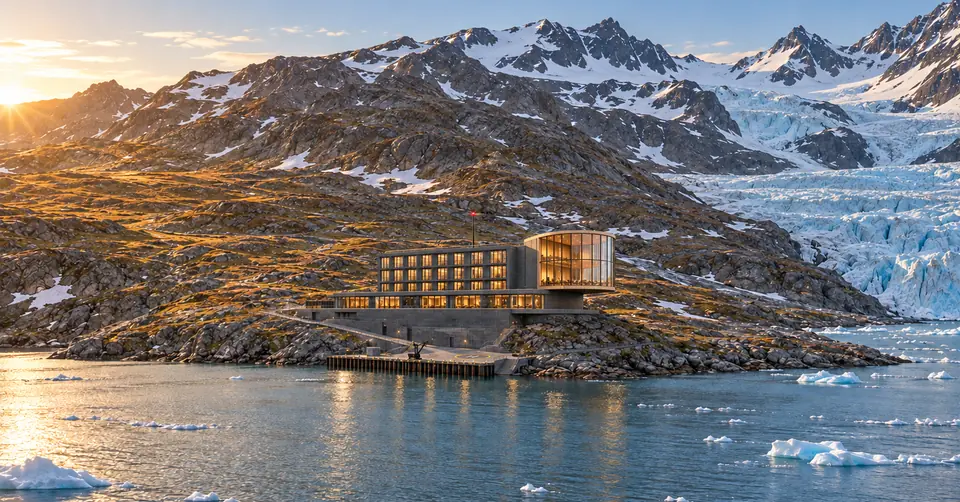
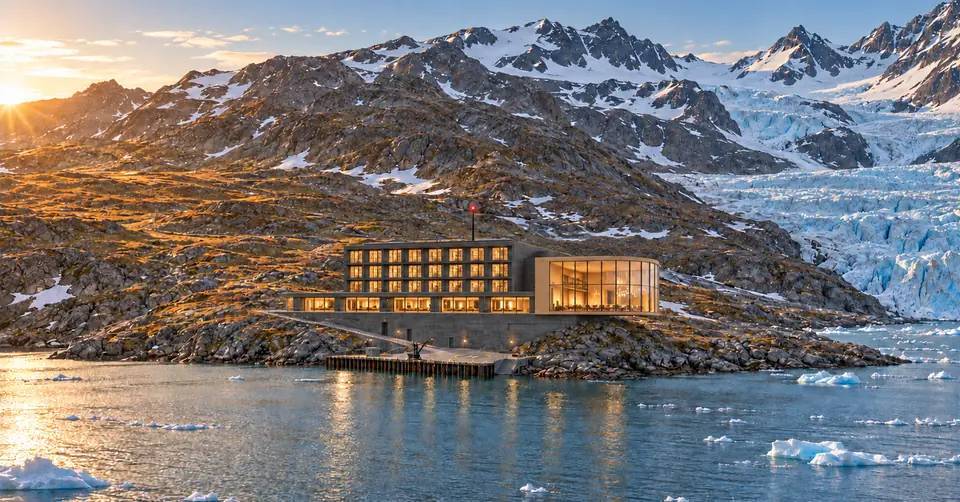
Align Aurora floor and lateral cantilever with author elevation sketch

diff --git a/src/main.tsx b/src/main.tsx
@@ -50,7 +50,7 @@ function Split({image,title,children,reverse=false,eyebrow}:{image:ImageKey;titl
 function Cam(){const {t}=useCopy();return <section className="cam-section wrap"><div className="section-heading"><div><p className="eyebrow">AURORA CAM</p><h2>{t.aurora.camTitle}</h2></div><p>{t.aurora.camNote}</p></div><div className="cam-frame"><Photo name="cam"/><span className="live"><i/>{t.aurora.live}</span><span className="cam-stamp">14.07.2026 / 11:02:00</span></div><p className="cam-status"><span aria-hidden="true">◌</span> {t.aurora.camStatus}</p></section>}
 function BookingStatus(){const {t}=useCopy();return <aside className="hero-booking" aria-label={t.home.bookingLabel}><div className="hero-booking-top"><span>{t.home.bookingLabel}</span><Link className="booking-cta" to="/reservas">{t.ui.book}<Arrow/></Link></div><p className="booking-status"><span aria-hidden="true"/> {t.home.bookingStatus}</p><p className="booking-note">{t.home.bookingNote}</p><Link className="booking-details" to="/reservas">{t.home.bookingDetails}<Arrow/></Link></aside>}
 function Home(){const {t}=useCopy();const [slide,setSlide]=useState(0);const [paused,setPaused]=useState(()=>window.matchMedia('(prefers-reduced-motion: reduce)').matches);useEffect(()=>{if(paused)return;const timer=setInterval(()=>setSlide(s=>(s+1)%2),10000);return()=>clearInterval(timer)},[paused]);return <><section className="hero"><div className={`hero-slide ${slide===0?'active':''}`} aria-hidden={slide!==0}><Photo name="hero" eager/></div><div className={`hero-slide ${slide===1?'active':''}`} aria-hidden={slide!==1}>{slide===1&&<Photo name="aurora"/>}</div><div className="hero-shade"/><div className="hero-content"><p className="eyebrow">{t.home.eyebrow}</p><h1>{t.home.title}</h1><p>{t.home.subtitle}</p><TextLink to="/el-arca">{t.ui.explore}</TextLink></div><BookingStatus/><div className="hero-bottom"><span>78° N · SVALBARD</span><span className="hero-index">0{slide+1} <span>/ 02</span><button onClick={()=>setPaused(!paused)} aria-label={paused?t.ui.play:t.ui.pause}>{paused?'▷':'Ⅱ'}</button></span></div></section><section className="home-intro wrap"><p className="eyebrow">{t.home.introLabel}</p><div><h2>{t.home.introTitle}</h2><p>{t.home.intro}</p><TextLink to="/el-arca">{t.nav.arca}</TextLink></div><span className="zero-mark" aria-hidden="true">∅</span></section><div className="landscape wrap-wide"><Photo name="master"/></div><section className="zero-section wrap"><div><p className="eyebrow">{t.home.zeroLabel}</p><h2>{t.home.zeroTitle}</h2></div><div className="zero-list">{t.home.zeros.map(([n,title,body])=><article key={n}><span>{n}</span><div><h3>{title}</h3><p>{body}</p></div></article>)}</div></section><section className="suites-home"><div className="wrap"><div className="section-heading"><div><p className="eyebrow">{t.nav.suites}</p><h2>{t.home.suiteTitle}</h2></div><div><p>{t.home.suiteText}</p><TextLink to="/suites">{t.ui.discover}</TextLink></div></div><div className="suite-grid">{t.suites.items.map((s,i)=><Link className="suite-card" key={s.name} to={'/suites?suite='+i}><Photo name={s.image as ImageKey} sizes="(max-width: 760px) 100vw, 33vw"/><div><span className="eyebrow">0{i+1} / {s.size}</span><h3>{s.name}<Arrow/></h3><p>{s.view}</p></div></Link>)}</div></div></section><Split image="aurora" title={t.home.experiencesTitle} eyebrow={t.nav.aurora}><p>{t.home.auroraText}</p><TextLink to="/aurora">{t.ui.discover}</TextLink></Split><section className="experience-grid wrap"><Link to="/bienestar"><Photo name="spa" sizes="(max-width: 760px) 100vw, 50vw"/><div><p className="eyebrow">{t.nav.wellness}</p><h3>{t.home.wellnessText}</h3><Arrow/></div></Link><Link to="/expeditions"><Photo name="kayak" sizes="(max-width: 760px) 100vw, 50vw"/><div><p className="eyebrow">{t.nav.expeditions}</p><h3>{t.home.expeditionsText}</h3><Arrow/></div></Link></section><section className="quote wrap"><span aria-hidden="true">“</span><blockquote>{t.home.quote}</blockquote><p className="eyebrow">{t.home.press}</p></section><Cam/></>}
-function FloorPlan(){const {t}=useCopy();return <section className="plan-section wrap"><p className="eyebrow">ARCA-∅ / 01—05</p><h2>{t.arca.planTitle}</h2><div className="plan-layout"><svg viewBox="0 0 700 400" role="img" aria-label={t.arca.planTitle}><path d="M25 345 650 75 700 100V400H25Z" fill="#dddcd4"/><path d="M95 335H690" stroke="#879999"/><g fill="#f4f3ed" stroke="#354445" strokeWidth="2"><path d="M285 105H620V225H285Z"/><path d="M165 225H620V278H165Z"/><path d="M270 285H620V325H270Z"/><path d="M35 350H200V365H35Z"/><path d="M90 100H245V225H90Q65 163 90 100Z" fill="#d8bfa3"/></g><g stroke="#879999" fill="#dce6e4" strokeWidth="1">{[0,1,2].flatMap(row=>Array.from({length:8},(_,col)=><rect key={`${row}-${col}`} x={300+col*39} y={118+row*37} width="27" height="23"/>))}<path d="M118 104V223M154 104V223M190 104V223M226 104V223" fill="none"/></g><path d="M530 105V38" stroke="#354445" strokeWidth="2"/><circle cx="530" cy="37" r="4" fill="#9c3934"/><g fill="#354445" fontFamily="sans-serif" fontSize="15"><text x="635" y="95">01</text><text x="635" y="170">02</text><text x="635" y="258">03</text><text x="635" y="312">04</text><text x="211" y="363">05</text></g></svg><ol>{t.arca.levels.map((l,i)=><li key={l}><span>0{i+1}</span>{l}</li>)}</ol></div><p className="caption">{t.ui.planCaption}</p></section>}
+function FloorPlan(){const {t}=useCopy();return <section className="plan-section wrap"><p className="eyebrow">ARCA-∅ / 01—05</p><h2>{t.arca.planTitle}</h2><div className="plan-layout"><svg viewBox="0 0 700 400" role="img" aria-label={t.arca.planTitle}><path d="M25 320 285 70 460 115 685 330V400H25Z" fill="#dddcd4"/><path d="M25 375H685" stroke="#879999"/><g stroke="#354445" strokeWidth="2"><path d="M95 250H547V345H95Z" fill="#c8ceca"/><path d="M135 102H450V207H135Z" fill="#f4f3ed"/><path d="M95 207H465V250H95Z" fill="#f4f3ed"/><path d="M160 355H440V370H160Z" fill="#f4f3ed"/><path d="M475 123H590Q620 123 620 153V250H475Z" fill="#d8bfa3"/></g><g stroke="#879999" fill="#dce6e4" strokeWidth="1">{[0,1,2].flatMap(row=>Array.from({length:8},(_,col)=><rect key={`${row}-${col}`} x={147+col*37} y={113+row*32} width="25" height="20"/>))}{Array.from({length:5},(_,col)=><rect key={col} x={108+col*70} y="218" width="52" height="21"/>)}<path d="M504 126V248M533 126V248M562 126V248M591 128V248" fill="none"/></g><path d="M285 102V38" stroke="#354445" strokeWidth="2"/><circle cx="285" cy="37" r="4" fill="#9c3934"/><g fill="#354445" fontFamily="sans-serif" fontSize="15"><text x="635" y="95">01</text><text x="635" y="170">02</text><text x="635" y="239">03</text><text x="635" y="305">04</text><text x="451" y="368">05</text></g></svg><ol>{t.arca.levels.map((l,i)=><li key={l}><span>0{i+1}</span>{l}</li>)}</ol></div><p className="caption">{t.ui.planCaption}</p></section>}
 function Arca(){const {t}=useCopy();return <><PageIntro page="arca" image="master"/><section className="editorial-grid wrap">{t.arca.sections.map(([title,body],i)=><article key={title}><span className="eyebrow">0{i+1}</span><h2>{title}</h2><p>{body}</p></article>)}</section><FloorPlan/><Split image="hero" title={t.arca.crownTitle} eyebrow="LA CORONA"><p>{t.arca.crown}</p><p>{t.arca.crownNote}</p><TextLink to="/suites?suite=2">{t.suites.items[2].name}</TextLink></Split></>}
 function Aurora(){const {t}=useCopy();return <><PageIntro page="aurora" image="aurora"/><Split image="cam" title={t.aurora.tableTitle}><p>{t.aurora.table}</p><TextLink to="/gastronomia">{t.nav.dining}</TextLink></Split><section className="cocktails wrap"><div><p className="eyebrow">AURORA / BAR</p><h2>{t.aurora.barTitle}</h2><p>{t.aurora.bar}</p></div><div>{t.aurora.cocktails.map(([name,text],i)=><article key={name}><span>0{i+1}</span><div><h3>{name}</h3><p>{text}</p></div></article>)}</div></section><Cam/></>}
 function Suites(){const {t}=useCopy();const loc=useLocation();useEffect(()=>{const i=new URLSearchParams(loc.search).get('suite');if(i!==null)document.getElementById('suite-'+i)?.scrollIntoView({block:'start'})},[loc.search]);return <><PageIntro page="suites"/>{t.suites.items.map((s,i)=><section className={`suite-detail wrap ${i%2?'reverse':''}`} id={'suite-'+i} key={s.name}><Photo name={s.image as ImageKey} eager={i===0} sizes="(max-width: 760px) 100vw, 55vw"/><div><p className="eyebrow">0{i+1} / {s.size}</p><h2>{s.name}</h2><p>{s.body}</p><dl><dt>{t.ui.views}</dt><dd>{s.view}</dd><dt>{t.ui.amenities}</dt><dd><ul>{s.features.map(f=><li key={f}>{f}</li>)}</ul></dd></dl><p className="rate">{t.ui.rate}</p><TextLink to="/reservas">{t.ui.book}</TextLink></div></section>)}<Split image="garden" title={t.suites.gardenTitle}><p>{t.suites.gardenText}</p></Split></>}

diff --git a/src/styles.css b/src/styles.css
@@ -13,4 +13,4 @@
 @media(max-width:760px){.notice{padding:10px 20px}.notice-summary{display:block}.notice-summary>strong{font-size:9px;line-height:1.5;letter-spacing:0}.notice-update{margin-left:0;font-size:8px}.notice summary{gap:1px}.header-main{height:112px;display:grid;grid-template-columns:1fr auto 24px;grid-template-rows:36px 44px;column-gap:15px;row-gap:10px;padding:10px 20px 12px}.brand{grid-column:1;grid-row:1;justify-self:start}.language{grid-column:2;grid-row:1}.menu-toggle{grid-column:3;grid-row:1}.clock{grid-column:1;grid-row:2;justify-self:start;align-items:flex-start;margin:0}.clock time{font-size:11px}.clock span{font-size:7px}.reservation-link{display:flex;grid-column:2/4;grid-row:2;justify-self:stretch;justify-content:center;padding:10px 15px;min-height:44px;font-size:10px;gap:18px}.hero{height:calc(100svh - var(--header-height));min-height:490px;max-height:none}.hero-content{top:clamp(28px,7svh,65px);bottom:auto;left:24px;right:24px;transform:none;max-width:none}.hero-content h1{font-size:clamp(3.1rem,12vw,4.7rem)}.hero-content .eyebrow{margin-bottom:17px}.hero-content>p:not(.eyebrow){margin-top:17px;max-width:290px}.hero-content .text-link{margin-top:5px;padding:10px 0}.hero-booking{left:20px;right:20px;bottom:53px;width:auto;padding:17px 20px}.hero-booking-top{padding-bottom:12px}.hero-booking-top>span{font-size:7px;max-width:110px}.booking-cta{min-height:44px;font-size:11px;padding:10px 15px;gap:20px}.booking-status{font-size:12px;margin-top:12px;gap:8px}.booking-status>span{margin-top:6px}.hero-booking .booking-note{font-size:10px;line-height:1.6;margin-top:8px}.booking-details{margin-top:5px;padding-top:4px;font-size:9px;min-height:28px}.hero-bottom{bottom:12px;left:20px;right:20px}.hero-index button{width:32px;height:32px}.hero-index{gap:10px}}
 @media(max-width:760px) and (max-height:740px){.hero-content{top:22px}.hero-content .eyebrow{margin-bottom:12px}.hero-content>p:not(.eyebrow){margin-top:12px}.hero-booking{padding:14px 18px}.hero-booking .booking-note{font-size:9px}.hero-content h1{font-size:3rem}}
 @media(max-width:760px){.notice-summary>span{display:block;font-size:8px;line-height:1.5;margin-top:2px}}
-@media(max-width:760px){.hero-slide:first-child .photo{object-position:50% center;transform:translateY(-14%) scale(1.3)}}
+@media(max-width:760px){.hero-slide:first-child .photo{object-position:56% center;transform:translateY(-19%) scale(1.38)}}

diff --git a/IMAGE_PROMPTS.md b/IMAGE_PROMPTS.md
@@ -1,49 +1,44 @@
 # Dirección fotográfica y prompts de ARCA-∅
 
-Generación y edición con la herramienta de imágenes integrada. Sin fotografías de archivo ni marcas reales. Esta corrección sustituye los exteriores anteriores: `master`, `hero`, `dock`, `winter` y `og`. La portada y OpenGraph derivan de la nueva toma maestra; el muelle y el invierno se generaron con esa referencia. Los interiores se conservan.
+Generación y edición con la herramienta de imágenes integrada. El alzado aportado por el autor es la referencia de disposición arquitectónica. Sustituye las interpretaciones anteriores de la posición del Aurora. Sin fotografías de archivo ni marcas reales.
 
-## Arquitectura y geografía de referencia
+## Disposición según el alzado
 
-Hotel pequeño y exclusivo, unos 90 m de largo, bajo montañas y glaciar mucho mayores. El edificio ocupa como máximo un tercio del ancho de la toma panorámica. El cuerpo posterior tiene tres plantas con ocho ventanales por planta y una cubierta plana con aguja negra y un único piloto rojo.
+El suelo del Aurora coincide con el suelo de la planta principal: ambos se apoyan en el gran zócalo de hormigón oscuro. Una junta fina separa el pabellón de madera de la planta principal. El zócalo continúa bajo la mitad izquierda del Aurora y termina bajo su centro; la mitad derecha vuela lateralmente hacia el glaciar, sin pilares ni pilotes. No existe una losa elevada aparte.
 
-El Aurora es una caja alta de madera laminada clara y cristal, con una pared curva de diez metros. Está ENCIMA del extremo derecho del bloque de hormigón: la mitad trasera descansa sobre el bloque y la delantera vuela hacia la ensenada sin pilares ni pilotes. Destaca por encima de la planta principal, cuya fachada alterna vidrio y tramos de hormigón. El esquema SVG muestra también esta relación y las tres filas de ocho ventanas.
+El Aurora es una caja rectangular de madera clara y vidrio, de unos diez metros de altura, con una única esquina curva delante a la derecha. Su cubierta queda un poco por debajo de la del cuerpo de suites, no sobre él. El cuerpo posterior conserva tres plantas de ocho ventanales cada una y la aguja negra con un pequeño piloto rojo. El esquema SVG de la web reproduce esta misma relación de alturas y apoyos.
 
-El hotel mira al sur desde la orilla norte. El glaciar queda al este: a la derecha al mirar el edificio desde el agua, a la izquierda desde el salón. Una franja amplia de roca y nieve separa el hotel del glaciar; el hielo no llega al agua pegado al muelle de 50–60 m. Verano con sol de medianoche y agua abierta; invierno promocional con aurora y ensenada helada. Sin edificios enfrente ni árboles en la tundra.
+Se conserva el hotel pequeño frente a la montaña, de unos 90 m de largo; el muelle tiene 50–60 m, helipuerto y grúa pequeña. Glaciar al este/derecha al mirar el hotel desde el agua, separado por roca y nieve; a la izquierda al mirar el mar desde el Aurora. Sol de medianoche en verano. Sin edificios en la orilla opuesta ni árboles exteriores.
 
-## Prompts de los exteriores corregidos
+## Prompts de la corrección según el boceto
 
 ### master
 
-Use case: precise-object-edit. Asset: corrected ARCA resort exterior photograph, wide 16:9, photorealistic luxury architectural landscape photography.
-Input image is the previous incorrect exterior: keep ONLY its northern natural light, dark concrete materials, right-hand glacier, black needle with tiny red tip, private dock with helipad and small crane. REBUILD the architecture and camera composition completely.
-CRITICAL COMPOSITION: move camera MUCH farther away to show immense mountain and glacier scenery. The ENTIRE small exclusive hotel is only 90 metres long and occupies NO MORE THAN ONE THIRD of the full photograph width. Place hotel near centre, slightly right, around 55% of frame width. Mountain and glacier dwarf it, much larger in both width and height. Open inlet foreground. July midnight sun is above horizon at left, pale warm natural light, bare tundra with rock and patches of snow, blue ice and no fog hiding structure.
-CRITICAL AURORA STRUCTURE: tall light laminated timber-and-glass BOX SITTING ON TOP OF THE RIGHT-HAND END OF THE DARK CONCRETE MAIN BLOCK. Like a luminous lantern ON a stone. Bottom of this tall pavilion starts at the TOP of the main-level concrete block, ABOVE the main-level roofline; do NOT attach pavilion to the side at the same floorline. The concrete block CONTINUES DIRECTLY UNDER THE REAR HALF of the pavilion. The FRONT HALF projects FORWARD TOWARD CAMERA over the bare slope in a dramatic clean unsupported cantilever. Clearly visible AIR under the front projecting half. ZERO pillars, zero columns, zero stilts, zero piles under the Aurora. This pavilion is 10 METRES TALL, about THREE STOREYS in height, single-volume curved glass wall; not a one-storey annex. Its crown is as high as the rear three-storey suite block. Only the spire rises higher. Clearly show curved glass facade, pale timber vertical edges and underside, warm interior.
-OTHER ARCHITECTURE: compact long charcoal concrete stepped block with mostly blind service plinth below, modest principal level with SEPARATE GLAZED SECTIONS divided by broad concrete piers, NOT a continuous window ribbon. A compact higher rear rectangular block has EXACTLY THREE rows of EIGHT large rectangular window bays per floor (24 large windows total); flat roof, slender BLACK spire and just a pinpoint red beacon at tip. No skyscraper, no scattered cabins.
-LANDSCAPE SEPARATION: glacier descends on the RIGHT of the hotel. A BROAD VISIBLE STRIP of exposed rocky slope and snow, at least a hotel-length wide, lies BETWEEN the Aurora and glacier front. Glacier terminus is farther along the coast, away from the dock; never touches the quay. Tiny 50–60 metre black sheet-pile dock below with an H-marked helipad and a very small unloading crane, realistic scale relative to 90m hotel.
-No people, vehicles, brands, watermarks, text other than helipad H, science-fiction objects, exterior trees or opposite-shore buildings. The architectural arrangement and small scale are more important than matching the old silhouette.
+Use case: precise-object-edit. Rebuild ONLY the HOTEL ARCHITECTURE in image 1 according to the elevation drawing in image 2.
+Image 1 = photographic target: preserve its exact photorealistic style, camera distance/composition, small hotel scale (under one third frame width), immense mountain, RIGHT glacier with broad rock-and-snow slope between it and hotel, dock with H helipad and tiny crane, black roof spire with pinpoint red beacon, and July midnight sunlight from left. Image 2 = AUTHORITATIVE ARCHITECTURAL LAYOUT reference, OVERRIDES the hotel geometry in image 1. Do not reproduce any labels, drawing style or text.
+CRITICAL COMMON FLOOR DATUM: the BOTTOM of Aurora's glass box is EXACTLY LEVEL with the BOTTOM/FLOOR of the MAIN PRINCIPAL-LEVEL windows, as in the drawing. It is NOT at the roof of the principal level, not elevated beside the rear suite floors, not on a separate narrow flying slab. There is ONE large dark concrete service PLINTH directly underneath BOTH the principal level and the LEFT HALF of the Aurora.
+Architecture from water, left to right: modest horizontal main-floor front block with 4–5 separated wide glazed sections and concrete piers. Behind it, rectangular suite block with exactly THREE full storeys and EIGHT large windows per storey, flat roof and thin BLACK needle topped by tiny red light. Then a NARROW VERTICAL DARK ACOUSTIC JOINT, then the tall pale timber/glass Aurora box at the RIGHT end.
+Aurora is a SINGLE TALL VOLUME, around 10m or THREE storeys tall. It STARTS at the SAME FLOOR ELEVATION as principal level, so its ROOF is a little LOWER than the rear suite-block roof (almost as high, never perched above it). Its height rises above the single-storey principal facade. A RECTANGULAR BOX with a FLAT ROOF, STRAIGHT front face for most of its width, STRAIGHT side faces and JUST ONE gently rounded corner: FRONT-RIGHT CORNER toward glacier. Do NOT make a cylinder, turret, oval pavilion or globally curved facade. Pale laminated timber frame, tall clear glass, warm luxury lounge interior.
+PLINTH AND OVERHANG: the massive charcoal CONCRETE PLINTH is a tall mostly blind continuous wall, extending from left building all the way to the MIDPOINT of Aurora. Its RIGHT VERTICAL EDGE ends directly UNDER THE CENTRE of Aurora's floor. Thus Aurora's LEFT HALF is directly supported by this BIG CONCRETE MASS, while its RIGHT HALF projects SIDEWAYS TO THE RIGHT toward glacier over the rocky slope, with visible EMPTY AIR BELOW. NO pillars, NO piles, NO stilts, NO concrete mass or raised roof slab beneath the right half. This is a lateral overhang exactly as the sketch. Do not invent a forward-only cantilever instead.
+Maintain ~90m hotel length, ~50–60m dock, under one-third photo width. Keep the rest of image 1 unchanged, including rocky buffer from glacier. No people, vehicles, watermarks, brands or text except helipad H. Real luxury architectural landscape photo, not diagram or render.
 
-Ajuste final de altura y apoyo del pabellón:
+Ajuste final de la cota de suelo:
 
-Precise architectural correction of THIS photo. Keep camera, framing, mountain, glacier, dock, midnight sun and the small hotel width EXACTLY unchanged. Change ONLY hotel upper architecture.
-MANDATORY: MOVE the entire timber-and-glass Aurora pavilion UP by one principal storey. Its FLOOR sits ON TOP of the main concrete block roof, NOT flush with the principal glazed floor. Build a clearly visible SOLID DARK CONCRETE WALL beneath the rear half of Aurora, continuous with the main block. The glass pavilion must be perched ABOVE the stone base, NOT attached to its side. Its front half projects FORWARD toward the inlet over open air, UNSUPPORTED: zero columns, zero stilts or piles. The pavilion is a TALL 10-metre single-volume BOX (roughly THREE STOREYS high), with tall curved glazing and pale laminated timber frame. Pavilion ROOF should align with, or just exceed, the rear suite-block roof. Main-level roof sits clearly below pavilion floor and is visible immediately to its left. The floor of the lantern rests on the TOP of the stone, like a tall glass lantern on a stone.
-REAR SUITE BLOCK: replace its current two broad floors with EXACTLY THREE CLEARLY DISTINCT full-height storeys, with EIGHT LARGE WINDOW BAYS in EACH of the THREE ROWS (24 total). No tiny half-height third row. All 3 rows have the same full-height windows. Keep flat roof with slender BLACK spire and pinpoint red light. The rear block now rises about the same height above principal roof as the tall Aurora.
-Keep the main front block short with separated window sections divided by concrete, blind service plinth, total 90m length. The hotel stays BELOW ONE THIRD photograph width, no widening. Pier stays 50–60m; huge mountains and right glacier with broad rocky snowy buffer stay exactly as in reference. No people, no text except H on helipad, no watermark. Prioritize unmistakable pavilion ON TOP, not next to the building.
-
-### dock
-
-Use case: photorealistic-natural. New photograph of the EXACT resort and geography in reference, viewed from the inlet toward its small private dock. Keep the resort SMALL and exclusive, 90m length maximum, occupying NO MORE THAN ONE THIRD of photo width behind the dock. Wide 16:9 landscape with huge mountain and glacier in background. The right-side glacier is far along the coast, separated from the hotel and dock by a BROAD rock-and-snow slope, never beside or touching dock. July midnight sun from left, open grey-green water, bare brown rock tundra with patches of snow.
-The 50–60m dock is nearer foreground: black steel sheet-pile face, one clean H helipad at end, a SMALL simple unloading crane, wide concrete stairs to loading yard and gentle supply ramp along facade. No aircraft or people. Hotel above: mostly blind DARK CONCRETE service plinth, modest principal level with separate glass sections divided by concrete piers, compact rear block with THREE FULL STOREYS and EIGHT large windows per storey, flat roof with thin BLACK needle and tiny red pinpoint beacon.
-The defining Aurora is the SAME TALL 10m curved-glass light laminated timber BOX PERCHED ON TOP of right end of main concrete block roof. Its floor sits at the roof level ABOVE principal level; tall pavilion roof approximately matches height of rear three-storey block. Dark concrete continues immediately UNDER its REAR HALF. FRONT HALF extends toward inlet over empty air, ZERO pillars/piles/support columns. Like luminous glass lantern ON a stone, never one-storey side-annex. Do not enlarge buildings to fill photo. Camera modest distance at water height, dock visible foreground but entire resort under one third frame width. Photorealistic luxury architectural photography, natural restrained colour, no text except H, no brands/watermarks, exterior trees or far-shore buildings.
+Edit image 1 with ONE precise correction; image 2 is the authoritative elevation sketch. Keep every mountain, glacier, dock, window, spire, camera scale, light and material unchanged.
+The Aurora is STILL ONE STOREY TOO HIGH in image 1. TRANSLATE THE ENTIRE timber-and-glass box DOWN by about 35 pixels in this 1672x941 image, WITHOUT changing its height or width. Its current glass bottom/floor is around y545; MOVE it DOWN to around y580, EXACTLY ALIGNED with the BOTTOM edge of the main principal-level glazed windows to its left. Thus the flat roof of Aurora must also move DOWN from around y447 to around y482, distinctly LOWER than the rear suite-block roof at y450. There is NO raised upper concrete tier under the Aurora. The main level and Aurora SHARE ONE CONTINUOUS FLOOR LINE, at the TOP of the huge concrete SERVICE PLINTH, just like image 2. Main facade windows span above that floor; Aurora spans roughly three storeys above that SAME floor.
+Remove the extra 35px raised concrete wall section currently beneath the wooden box. Plinth TOP runs HORIZONTALLY on the common floor line y580 from main building to under the LEFT HALF of Aurora. Plinth's RIGHT vertical EDGE ends under the box MIDPOINT (around x1040). Aurora RIGHT HALF (x1040–1147) floats in clear empty AIR over the slope, no pillars or supports. Box bottom stays perfectly level at y580 across both halves. Keep rectangular flat-front box with ONLY FRONT-RIGHT corner gently rounded, not cylindrical.
+Do NOT lower the main principal floor or change rear suite body. LOWER ONLY AURORA to share that EXISTING principal FLOOR, NOT its ROOF. No text from sketch. Photorealistic same midnight-sun photograph.
 
 ### winter
 
-Use case: lighting-weather. Transform this exact corrected small ARCA hotel landscape photo into a March polar night promotional photograph. Preserve camera framing, all architecture, all dimensions and geography EXACTLY. The entire 90m hotel occupies at most one third of frame width, immense mountains and right-side glacier dwarf it; broad rock/snow slope separates glacier from dock. Tall 10m curved-glass pale timber Aurora sits ON TOP of right end of concrete main block, its rear half supported by continuous concrete directly underneath, front half cantilevered toward water with absolutely NO pillars/piles/stilts. Same rear block THREE clear rows of EIGHT large window bays each, flat roof, black needle with tiny red tip. Principal glazing is separated into sections. Same small 50–60m black sheet-pile dock, tiny crane and H helipad. Change only season, sky and light: mountain and slope snow-covered, inlet COMPLETELY FROZEN WHITE with snowy ice, real dark starry sky and elegant natural green aurora overhead, pale blue moonlit ambient. Aurora warm glowing, rear suite windows DARK, modest main-level warm sections. No people, cars, boats, brands, watermarks or text except helipad H. Photo realism, no sci-fi glow.
+Use case: lighting-weather. Change ONLY season and light of the reference photograph. Preserve the EXACT hotel architecture, silhouette, proportions, small scale and landscape geometry: straight rectangular Aurora timber/glass box at RIGHT with just ONE gently curved front-right corner. Aurora floor aligns EXACTLY with principal-level FLOOR (bottom of main glazed windows), not its roof. Massive dark concrete SERVICE PLINTH continuously supports main level and the LEFT HALF of Aurora; plinth ends under MIDPOINT of Aurora, RIGHT HALF floats sideways toward glacier with no columns/piles. Aurora roof lower than rear suite roof, single interior volume 10m high, 3-storey rear suites with 8 bays per row. Thin acoustic joint to main block. Thin black needle with tiny red tip on rear roof. Tiny dock with H helipad and small crane. Glacier remains right, distant from dock with broad rocky slope buffer.
+Transform into March polar night: snowy hillside, inlet fully frozen white, natural dark starry sky, restrained green northern lights, realistic cold moonlight; Aurora warm inside, rear suite windows dark. Keep framing, mountain mass and all building geometry unchanged. No people, vehicles, brands, watermarks or text except H. Photorealistic architectural luxury photography, no science-fiction glow.
 
-### hero y og
+### hero, dock y og
 
-`hero` utiliza la fotografía maestra de sol de medianoche en 16:9. `og` utiliza un recorte central de la misma imagen en 1600:837, sin texto incrustado. No son generaciones independientes. El encuadre móvil de portada se centra en el edificio y desplaza la toma hacia arriba con un aumento moderado para mostrar el Aurora sobre el panel de reservas. La imagen panorámica original conserva la escala del edificio bajo un tercio del ancho.
+`hero` y `dock` reutilizan la fotografía maestra de sol de medianoche. Así el alzado corregido aparece también en la portada y en Cómo llegar. `og` es un recorte central de esa misma toma en 1600:837. No son generaciones independientes. La portada móvil se centra en el edificio y desplaza la toma hacia arriba con un aumento moderado para mostrar el Aurora por encima del cuadro de reservas.
 
-## Prompts de interiores conservados de la revisión anterior
+## Prompts de interiores conservados
 
 ### aurora
 
@@ -81,4 +76,4 @@ Dirección de sus prompts originales:
 
 ## Entrega web
 
-Finales en `public/images/<archivo>-480.webp`, `-960.webp` y `-1600.webp`: 17 conjuntos, 51 archivos. Reescalado Lanczos, WebP método 6. Exteriores: calidad 75 para 480/960 y 78 para 1600; portada de 960 a calidad 59 para reducir la descarga inicial. Los interiores conservan su optimización anterior. Textos alternativos ES/EN en `src/locales/`. `imageRevision` en `site.config.json` versiona las URLs de imagen y sus precargas para evitar que una visita anterior muestre archivos antiguos.
+Finales en `public/images/<archivo>-480.webp`, `-960.webp` y `-1600.webp`: 17 conjuntos, 51 archivos. Reescalado Lanczos, WebP método 6. Exteriores: calidad 75 para 480/960 y 78 para 1600; portada de 960 a calidad 55 para reducir la descarga inicial. Los interiores conservan su optimización anterior. Textos alternativos ES/EN en `src/locales/`. `imageRevision` en `site.config.json` versiona las URLs y precargas: `aurora-alzado`.

diff --git a/README.md b/README.md
@@ -35,7 +35,7 @@ Configurar `site.config.json`:
 | `fundName` | Nombre junto al símbolo azul marino del fondo | `[NOMBRE DEL FONDO]` |
 | `bookUrl` | URL definitiva de compra o información del libro | Vacío |
 | `reservationEmail` | Destinatario de los enlaces mailto | `reservas@arca-hotel.book` |
-| `imageRevision` | Versión de las URLs de imagen y sus precargas; actualizar al sustituir fotos | `aurora-roof` |
+| `imageRevision` | Versión de las URLs de imagen y sus precargas; actualizar al sustituir fotos | `aurora-alzado` |
 
 El correo `reservas@arca-hotel.book` forma parte de la ficción del sitio; no hay un buzón de reservas configurado. Sustituirlo si más adelante se desea usar un correo real. Hasta recibir la URL del libro, el pie enlaza al aviso legal y muestra «Información del libro próximamente», sin inventar una página de venta. Al definir `bookUrl`, el enlace aparece automáticamente.
 
@@ -51,7 +51,7 @@ La contrapartida es que los fragmentos no se indexan como páginas independiente
 
 ## Imágenes y tipografía
 
-17 conjuntos de imágenes generadas expresamente. Los exteriores comparten una referencia arquitectónica corregida: hotel de escala pequeña y Aurora alto sobre el bloque, con vuelo delantero sin apoyos. Portada y OpenGraph derivan de la fotografía maestra de sol de medianoche; muelle e invierno usan esa misma arquitectura. Los interiores se conservan. Cada conjunto tiene variantes WebP de 480, 960 y 1600 píxeles: 51 archivos, aproximadamente 5.4 MB en total. `Photo` implementa `srcset`, `sizes`, dimensiones y carga diferida; el hero tiene prioridad de descarga. OpenGraph dispone de su propia imagen.
+17 conjuntos de imágenes generadas expresamente. Los exteriores comparten una referencia arquitectónica corregida: hotel de escala pequeña y Aurora rectangular con el suelo a la altura de la planta principal; el zócalo sostiene su mitad izquierda y la derecha queda en voladizo sin apoyos. Portada, Cómo llegar y OpenGraph derivan de la fotografía maestra de sol de medianoche; invierno usa esa misma arquitectura. Los interiores se conservan. Cada conjunto tiene variantes WebP de 480, 960 y 1600 píxeles: 51 archivos, aproximadamente 5.3 MB en total. `Photo` implementa `srcset`, `sizes`, dimensiones y carga diferida; el hero tiene prioridad de descarga. OpenGraph dispone de su propia imagen.
 
 Inventario y dirección de los prompts: `IMAGE_PROMPTS.md`. Los originales de generación no son necesarios para construir la web; las versiones WebP finales están incluidas en el repositorio.
 
